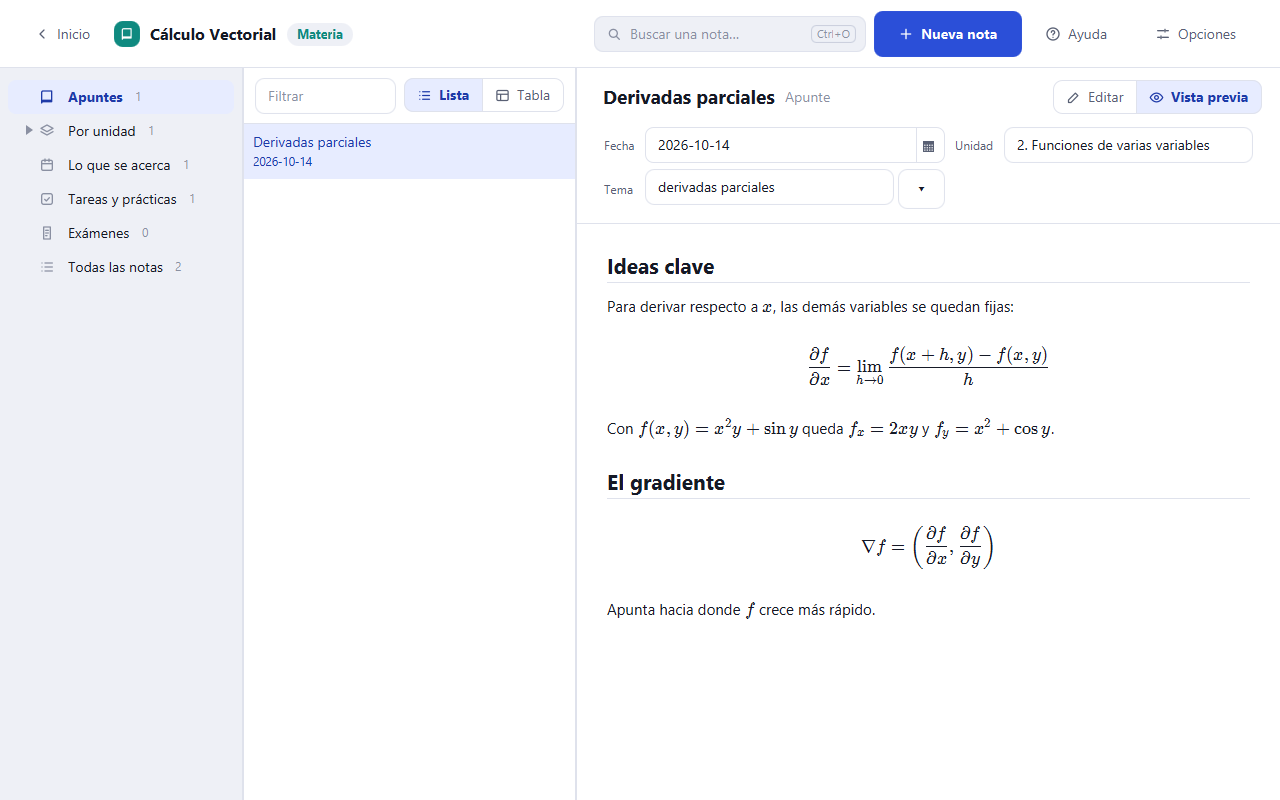
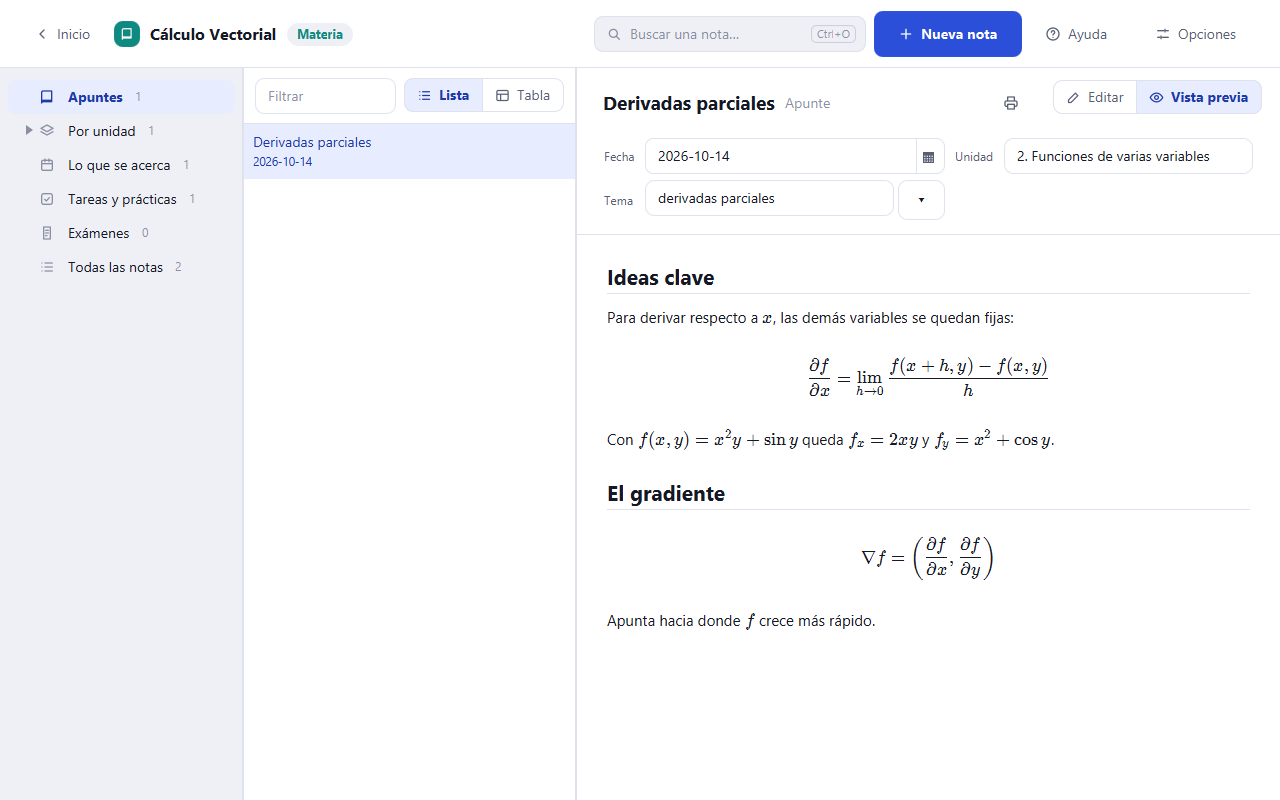
Devava Notes 2.3.0: the changelog, the README with its screenshots, and the notices of what Mermaid's parser carries

diff --git a/README.md b/README.md
@@ -12,9 +12,10 @@ Cada materia del semestre tiene su cuaderno, que sabe lo que lleva: tus **apunte
 las **tareas y prácticas** con su fecha de entrega, los **exámenes**, y en las materias de
 programación, **sesiones de código** con el código y lo que imprimió. Las materias salen de la
 retícula de ISC: escribes «estruc» y la app propone *Estructura de Datos*, de Programación y en
-Java. Tus notas llevan **tablas** que se escriben como en Excel y **dibujos** hechos sin salir
-de la app. Toda la app está en español, y tus notas son archivos de texto en tu computadora:
-sin cuentas, sin nube y sin instalar Java.
+Java. Tus notas llevan **tablas** que se escriben como en Excel, **dibujos** hechos sin salir de
+la app y **diagramas** que se dibujan solos a partir de su texto, y salen en **PDF** o en papel
+tal como se ven. Toda la app está en español, y tus notas son archivos de texto en tu
+computadora: sin cuentas, sin nube y sin instalar Java.
 
 | Inicio | Una sesión de código |
 | --- | --- |
@@ -31,6 +32,10 @@ sin cuentas, sin nube y sin instalar Java.
 | Una tabla, escrita en sus celdas | Un dibujo |
 | --- | --- |
 | ![Las columnas de la tabla EMPLOYEES de Taller de Bases de Datos, como cuadrícula](docs/screenshots/tabla.png) | ![Una pila y una cola dibujadas en Excalidraw, dentro de la app](docs/screenshots/dibujo.png) |
+
+| Un diagrama, que se dibuja mientras lo escribes | Imprimir, o guardar como PDF |
+| --- | --- |
+| ![Un diagrama de clases de POO escrito con Mermaid, dibujado debajo de su texto](docs/screenshots/diagrama.png) | ![La ventana para imprimir una sesión de código, con su vista previa en hoja carta](docs/screenshots/imprimir.png) |
 
 ## Descarga
 
@@ -51,7 +56,7 @@ Las versiones para macOS y Linux vienen después.
    agrega más con **Nueva materia**.
 2. **Escribe.** **Nueva nota** (`Ctrl+N`) ofrece lo que lleva cada materia: un apunte, una
    sesión de código, una tarea o un examen. La barra sobre la nota pone negritas, listas,
-   tablas, fórmulas, imágenes, dibujos y bloques de código con un clic.
+   tablas, fórmulas, imágenes, dibujos, diagramas y bloques de código con un clic.
 3. **Llena sus datos** arriba del texto (la entrega de una tarea, los temas de un examen):
    Inicio te dice lo que se acerca, y lo atrasado sale en rojo.
 
@@ -128,6 +133,11 @@ Las notas son Markdown, pero no hace falta saberlo: la barra sobre la nota lo es
 - **Dibujos** con Excalidraw, sin salir de la app: **Dibujo** en la barra abre una ventana para
   dibujar diagramas y esquemas, con imágenes y capturas para dibujar encima, Mermaid y una
   biblioteca de figuras. Un clic en el dibujo lo vuelve a abrir.
+- **Diagramas** escritos como texto, con [Mermaid](https://mermaid.js.org): **Diagrama** en la
+  barra agrega uno de flujo, de clases, entidad-relación, de secuencia o de estados para
+  cambiarlo, y quien sabe Mermaid escribe ```` ```mermaid ````. Se dibuja debajo de su texto
+  mientras lo escribes y, si algo está mal, dice en qué línea; la vista previa lo muestra
+  dibujado.
 - **Fórmulas**: `$e^{i\pi} + 1 = 0$` en el texto, o en su propia línea entre `$$`, dibujadas
   por KaTeX.
 - **Enlaces** entre notas: escribe `[[` y elige su título. `Ctrl+clic` sigue un enlace al
@@ -141,6 +151,16 @@ Las notas son Markdown, pero no hace falta saberlo: la barra sobre la nota lo es
   materia (herencia y polimorfismo en POO, pilas y colas en Estructura de Datos…).
 - Listas de pendientes (`- [ ]`) y tachado, como en GitHub.
 
+## PDF e impresión
+
+El botón de la impresora, junto a *Vista previa*, **exporta la nota a PDF**, que se abre al
+terminar, o la **imprime** (`Ctrl+P`), tal como la muestra la vista previa: fórmulas, código
+con colores, tablas, imágenes, dibujos y diagramas. Sale en hoja carta, con el título y lo que
+es la nota arriba (su materia, su tipo, su unidad y su fecha) y el número de página abajo; el
+clic derecho en una nota de la lista hace lo mismo sin abrirla. Lo hace Microsoft Edge, que
+viene con Windows, sin abrir otra ventana ni usar tu cuenta: tus notas no salen de tu
+computadora.
+
 ## Atajos de teclado
 
 | Tecla | Qué hace |
@@ -149,6 +169,7 @@ Las notas son Markdown, pero no hace falta saberlo: la barra sobre la nota lo es
 | `Ctrl+O` | Abrir cualquier nota por su título |
 | `Ctrl+Shift+F` | Buscar en el texto de todas las notas (sin importar acentos ni mayúsculas) |
 | `Ctrl+E` | Pasar entre Editar y Vista previa |
+| `Ctrl+P` | Imprimir la nota (el botón de la impresora también la exporta a PDF) |
 | `Ctrl+F` | Buscar y reemplazar en la nota |
 | `Ctrl+B`, `Ctrl+I` | Negrita, cursiva |
 | `Ctrl+V` | Pegar texto, una imagen, o celdas de Excel como tabla |
@@ -216,9 +237,12 @@ Deque<Character> pila = new ArrayDeque<>();
 
 Java 21, JavaFX 21 (con WebView), Maven (con su wrapper), Gson y commonmark-java. El editor es
 CodeMirror 6, con KaTeX para las fórmulas, empaquetado por esbuild en un solo script que carga
-el WebView; la ventana de dibujo es Excalidraw (con React), empaquetado aparte en `draw.js`. Las pruebas usan JUnit 5; el compilador corre con `-Xlint:all` y la compilación
-debe quedar sin advertencias. El código y sus comentarios están en inglés; lo que ve el
-estudiante, en español.
+el WebView; Mermaid, para los diagramas, va aparte en `diagrams.js`, que se carga cuando una
+nota tiene uno, y la ventana de dibujo es Excalidraw (con React), en `draw.js`. Los PDF y la
+impresión los hace Microsoft Edge a partir de la vista previa
+([`Pdf.java`](src/main/java/com/devavaxp/notes/Pdf.java)). Las pruebas usan JUnit 5; el
+compilador corre con `-Xlint:all` y la compilación debe quedar sin advertencias. El código y
+sus comentarios están en inglés; lo que ve el estudiante, en español.
 
 ```bash
 ./mvnw javafx:run                  # correr desde el código (requiere el JDK 21)
@@ -228,8 +252,8 @@ estudiante, en español.
 
 El código del editor está en [`editor/main.js`](editor/main.js), y el de la ventana de dibujo en
 [`editor/draw.js`](editor/draw.js). Después de cambiarlos, vuelve a empaquetarlos (con Node.js
-20 o más nuevo) y sube el resultado, `editor.js`, `draw.js`, `draw.css` y las fuentes de
-`src/main/resources/com/devavaxp/notes/`:
+20 o más nuevo) y sube el resultado, `editor.js`, `diagrams.js`, `draw.js`, `draw.css` y las
+fuentes de `src/main/resources/com/devavaxp/notes/`:
 
 ```bash
 cd editor
@@ -264,16 +288,16 @@ español, que necesita el [WiX Toolset 3.x](https://github.com/wixtoolset/wix3/r
 
 GitHub Actions compila, prueba y publica cada versión
 ([`.github/workflows/release.yml`](.github/workflows/release.yml)), así que cada descarga sale
-de una compilación limpia de un commit etiquetado. Para publicar, por ejemplo, la versión 2.3.0:
+de una compilación limpia de un commit etiquetado. Para publicar, por ejemplo, la versión 2.4.0:
 
-1. Pon `<version>2.3.0</version>` en `pom.xml`.
-2. Agrega una sección `## [2.3.0] - <fecha>` a [`CHANGELOG.md`](CHANGELOG.md) (es el «Qué hay
+1. Pon `<version>2.4.0</version>` en `pom.xml`.
+2. Agrega una sección `## [2.4.0] - <fecha>` a [`CHANGELOG.md`](CHANGELOG.md) (es el «Qué hay
    de nuevo» de la versión) y su enlace al final del archivo.
 3. Sube los cambios, y luego la etiqueta:
 
    ```bash
-   git tag v2.3.0
-   git push origin v2.3.0
+   git tag v2.4.0
+   git push origin v2.4.0
    ```
 
 Correr el workflow a mano desde la pestaña *Actions* es un ensayo: compila y prueba todo y

diff --git a/THIRD-PARTY-NOTICES.md b/THIRD-PARTY-NOTICES.md
@@ -10,24 +10,29 @@ includes the following third-party software, each under its own license.
 | [Gson](https://github.com/google/gson) | 2.10.1 | [Apache-2.0](https://www.apache.org/licenses/LICENSE-2.0.txt) | Google Inc. |
 | [commonmark-java](https://github.com/commonmark/commonmark-java), with its GFM tables, strikethrough and task list extensions | 0.30.0 | BSD-2-Clause (below) | Atlassian Pty Ltd |
 | [CodeMirror 6](https://codemirror.net) (`@codemirror/*`) and its libraries `@lezer/*`, `style-mod`, `w3c-keyname`, `crelt`, `@marijn/find-cluster-break` | 6 | MIT (below) | Marijn Haverbeke and others |
-| [KaTeX](https://katex.org), with its fonts | 0.18.9 | MIT (below) | Khan Academy and other contributors |
+| [KaTeX](https://katex.org), with its fonts | 0.18.9; 0.16.47 inside Mermaid | MIT (below) | Khan Academy and other contributors |
 | [Excalidraw](https://github.com/excalidraw/excalidraw) (`@excalidraw/excalidraw`), with `@excalidraw/laser-pointer`, `@excalidraw/mermaid-to-excalidraw` and `@excalidraw/markdown-to-text` | 0.18.1 | MIT (below) | Excalidraw; Daniel Esteves |
 | [React](https://react.dev) and React DOM, with `scheduler` and `use-sync-external-store` | 18.3.1 | MIT (below) | Meta Platforms, Inc. and affiliates |
 | [Mermaid](https://mermaid.js.org), with Cytoscape.js and its layouts, dagre-d3-es, marked, khroma, stylis, Day.js and the other libraries listed with the MIT License below | 11.17.2 | MIT (below); marked also under the Markdown license (below) | Knut Sveidqvist, and the authors named below |
-| [D3](https://d3js.org) (`d3`, its `d3-*` modules and `internmap`) | 7.9.0 | ISC (below); `d3-ease` and `d3-sankey` BSD-3-Clause (below); the ColorBrewer schemes of `d3-scale-chromatic` [Apache-2.0](https://www.apache.org/licenses/LICENSE-2.0.txt) | Mike Bostock and others (below) |
+| [Chevrotain](https://chevrotain.io) (`chevrotain` and its `@chevrotain/*` modules), inside Mermaid's parser (`@mermaid-js/parser`) | 11.1.2 | [Apache-2.0](https://www.apache.org/licenses/LICENSE-2.0.txt) | Shahar Soel and SAP SE |
+| [Langium](https://langium.org) and `chevrotain-allstar`, inside Mermaid's parser | 4.2.1; 0.3.1 | MIT (below) | TypeFox GmbH |
+| `vscode-jsonrpc`, `vscode-languageserver-protocol`, `vscode-languageserver-types`, `vscode-languageserver-textdocument` and `vscode-uri`, inside Mermaid's parser | 8.2.0; 3.17.5; 3.17.5; 1.0.12; 3.1.0 | MIT (below) | Microsoft Corporation |
+| [D3](https://d3js.org) (`d3`, its `d3-*` modules, `internmap` and `delaunator`) | 7.9.0 | ISC (below); `d3-ease`, `d3-sankey` and the `d3-array` 2, `d3-path` 1 and `d3-shape` 1 that d3-sankey uses BSD-3-Clause (below); the ColorBrewer schemes of `d3-scale-chromatic` [Apache-2.0](https://www.apache.org/licenses/LICENSE-2.0.txt) | Mike Bostock and others (below) |
 | [DOMPurify](https://github.com/cure53/DOMPurify) | 3.4.17 | [Apache-2.0](https://www.apache.org/licenses/LICENSE-2.0.txt) (it is also offered under MPL-2.0) | Dr.-Ing. Mario Heiderich, Cure53 |
 | [browser-fs-access](https://github.com/GoogleChromeLabs/browser-fs-access) | 0.29.1 | [Apache-2.0](https://www.apache.org/licenses/LICENSE-2.0.txt) | Google LLC |
 | [crc-32](https://github.com/SheetJS/js-crc32) | 0.3.0 | [Apache-2.0](https://www.apache.org/licenses/LICENSE-2.0.txt) | SheetJS |
 | [pako](https://github.com/nodeca/pako) | 2.0.3 | MIT and Zlib (below) | Vitaly Puzrin and Andrei Tuputcyn; Jean-loup Gailly and Mark Adler |
 | [fractional-indexing](https://github.com/rocicorp/fractional-indexing) | 3.2.0 | CC0-1.0 (no conditions) | Rocicorp |
+| [robust-predicates](https://github.com/mourner/robust-predicates), which D3's delaunator uses | 3.0.3 | Unlicense (no conditions) | Volodymyr Agafonkin |
 | [tslib](https://github.com/microsoft/tslib) | 2.8.1 | 0BSD (below) | Microsoft Corporation |
 | Excalidraw's fonts Excalifont, Virgil, Nunito, Lilita One, Assistant and Cascadia Code | | SIL Open Font License 1.1 (below) | named below |
 | Comic Shanns, one of Excalidraw's fonts | 1.3.0 | MIT (below) | Shannon Miwa and others (below) |
 
 CodeMirror and KaTeX are bundled into `editor.js` and the `katex` folder inside the
-application's jar; Excalidraw, React, Mermaid and the other libraries into `draw.js`, and
-Excalidraw's fonts are in its `fonts` folder (converted from WOFF2 to WOFF, with no other
-change). Excalidraw's Xiaolai and Liberation Sans fonts are not included.
+application's jar; Mermaid and its libraries into `diagrams.js`, for the diagrams of the
+notes; Excalidraw, React, Mermaid and the other libraries into `draw.js`, and Excalidraw's
+fonts are in its `fonts` folder (converted from WOFF2 to WOFF, with no other change).
+Excalidraw's Xiaolai and Liberation Sans fonts are not included.
 
 ## MIT License (CodeMirror, Lezer and their libraries; KaTeX; Excalidraw, React, Mermaid and their libraries; Comic Shanns)
 
@@ -44,6 +49,11 @@ Copyright (c) Facebook, Inc. and its affiliates; Copyright (c) Meta Platforms, I
 affiliates (React, React DOM, scheduler, use-sync-external-store)
 
 Copyright (c) 2014 - 2022 Knut Sveidqvist (Mermaid)
+
+Copyright 2021 TypeFox GmbH (Langium); Copyright 2022 TypeFox GmbH (chevrotain-allstar)
+
+Copyright (c) Microsoft Corporation (vscode-jsonrpc, vscode-languageserver-protocol,
+vscode-languageserver-types, vscode-languageserver-textdocument, vscode-uri)
 
 Copyright (c) 2016-2026, The Cytoscape Consortium (Cytoscape.js, cytoscape-cose-bilkent);
 Copyright (c) 2018 - present, iVis-at-Bilkent (cytoscape-fcose, cose-base, layout-base)
@@ -139,7 +149,7 @@ OF THIS SOFTWARE, EVEN IF ADVISED OF THE POSSIBILITY OF SUCH DAMAGE.
 
 Copyright 2010-2026 Mike Bostock (D3 and its modules, internmap); Copyright 2018-2021
 Observable, Inc. and Copyright 2021 Mapbox (d3-delaunay); Copyright 2008-2012 Charles
-Karney (d3-geo)
+Karney (d3-geo); Copyright (c) 2026, Mapbox (delaunator)
 
 Permission to use, copy, modify, and/or distribute this software for any purpose
 with or without fee is hereby granted, provided that the above copyright notice
@@ -157,11 +167,12 @@ The ColorBrewer color schemes in d3-scale-chromatic are Copyright 2002 Cynthia B
 Mark Harrower, and The Pennsylvania State University, licensed under the Apache License,
 Version 2.0.
 
-## BSD 3-Clause License (d3-ease, d3-sankey)
+## BSD 3-Clause License (d3-ease, d3-sankey, and the d3-array 2, d3-path 1 and d3-shape 1 it uses)
 
 Copyright 2010-2021 Mike Bostock; Copyright 2001 Robert Penner (d3-ease)
 
-Copyright 2015, Mike Bostock (d3-sankey)
+Copyright 2015, Mike Bostock (d3-sankey); Copyright 2010-2020 Mike Bostock (d3-array 2);
+Copyright 2015-2016 Mike Bostock (d3-path 1); Copyright 2010-2015 Mike Bostock (d3-shape 1)
 
 All rights reserved.
 

diff --git a/CHANGELOG.md b/CHANGELOG.md
@@ -5,6 +5,28 @@ Aquí están los cambios importantes de cada versión de Devava Notes. El format
 [versionado semántico](https://semver.org/lang/es/). Cada versión en GitHub toma su «Qué hay de
 nuevo» de la sección que le toca en este archivo.
 
+## [2.3.0] - 2026-10-15
+
+Tus notas salen en PDF y en papel tal como se ven, y llevan diagramas que se dibujan solos a
+partir de su texto.
+
+### Agregado
+- **Exportar a PDF e imprimir**: el botón de la impresora, junto a *Vista previa*, guarda la
+  nota como PDF, que se abre al terminar, o abre la ventana para imprimirla (`Ctrl+P`), con su
+  vista previa, la impresora, las copias y las páginas. Sale como la muestra la vista previa
+  (fórmulas, código con colores, tablas, imágenes, dibujos y diagramas), en hoja carta, con el
+  título y lo que es la nota arriba (su materia, su tipo, su unidad y su fecha) y el número de
+  página abajo. También desde el clic derecho de una nota en la lista. Lo hace Microsoft Edge,
+  que viene con Windows, sin abrir otra ventana ni usar tu cuenta de Microsoft: tus notas no
+  salen de tu computadora.
+- **Diagramas**: **Diagrama**, en la barra de formato, agrega uno de flujo, de clases,
+  entidad-relación, de secuencia o de estados, escrito como texto
+  ([Mermaid](https://mermaid.js.org)) para cambiarlo como quieras; también se escribe
+  ```` ```mermaid ````. Se dibuja debajo de su texto mientras lo escribes y, si algo está mal,
+  dice en qué línea. La vista previa, el PDF y la impresión lo muestran dibujado, con los
+  colores de la app (y en tema oscuro, con los suyos).
+- *Ayuda* incluye `Ctrl+P` y los diagramas.
+
 ## [2.2.0] - 2026-10-15
 
 Tus enlaces siguen a una nota cuando le cambias el nombre, la app se abre una sola vez y avisa
@@ -203,6 +225,7 @@ La primera versión de Devava Notes, para Windows.
 - Un instalador para Windows (por usuario, sin permisos de administrador) y un ZIP portable; no
   hay que instalar Java.
 
+[2.3.0]: https://github.com/HideOnVava/devava-notes/releases/tag/v2.3.0
 [2.2.0]: https://github.com/HideOnVava/devava-notes/releases/tag/v2.2.0
 [2.1.0]: https://github.com/HideOnVava/devava-notes/releases/tag/v2.1.0
 [2.0.0]: https://github.com/HideOnVava/devava-notes/releases/tag/v2.0.0
